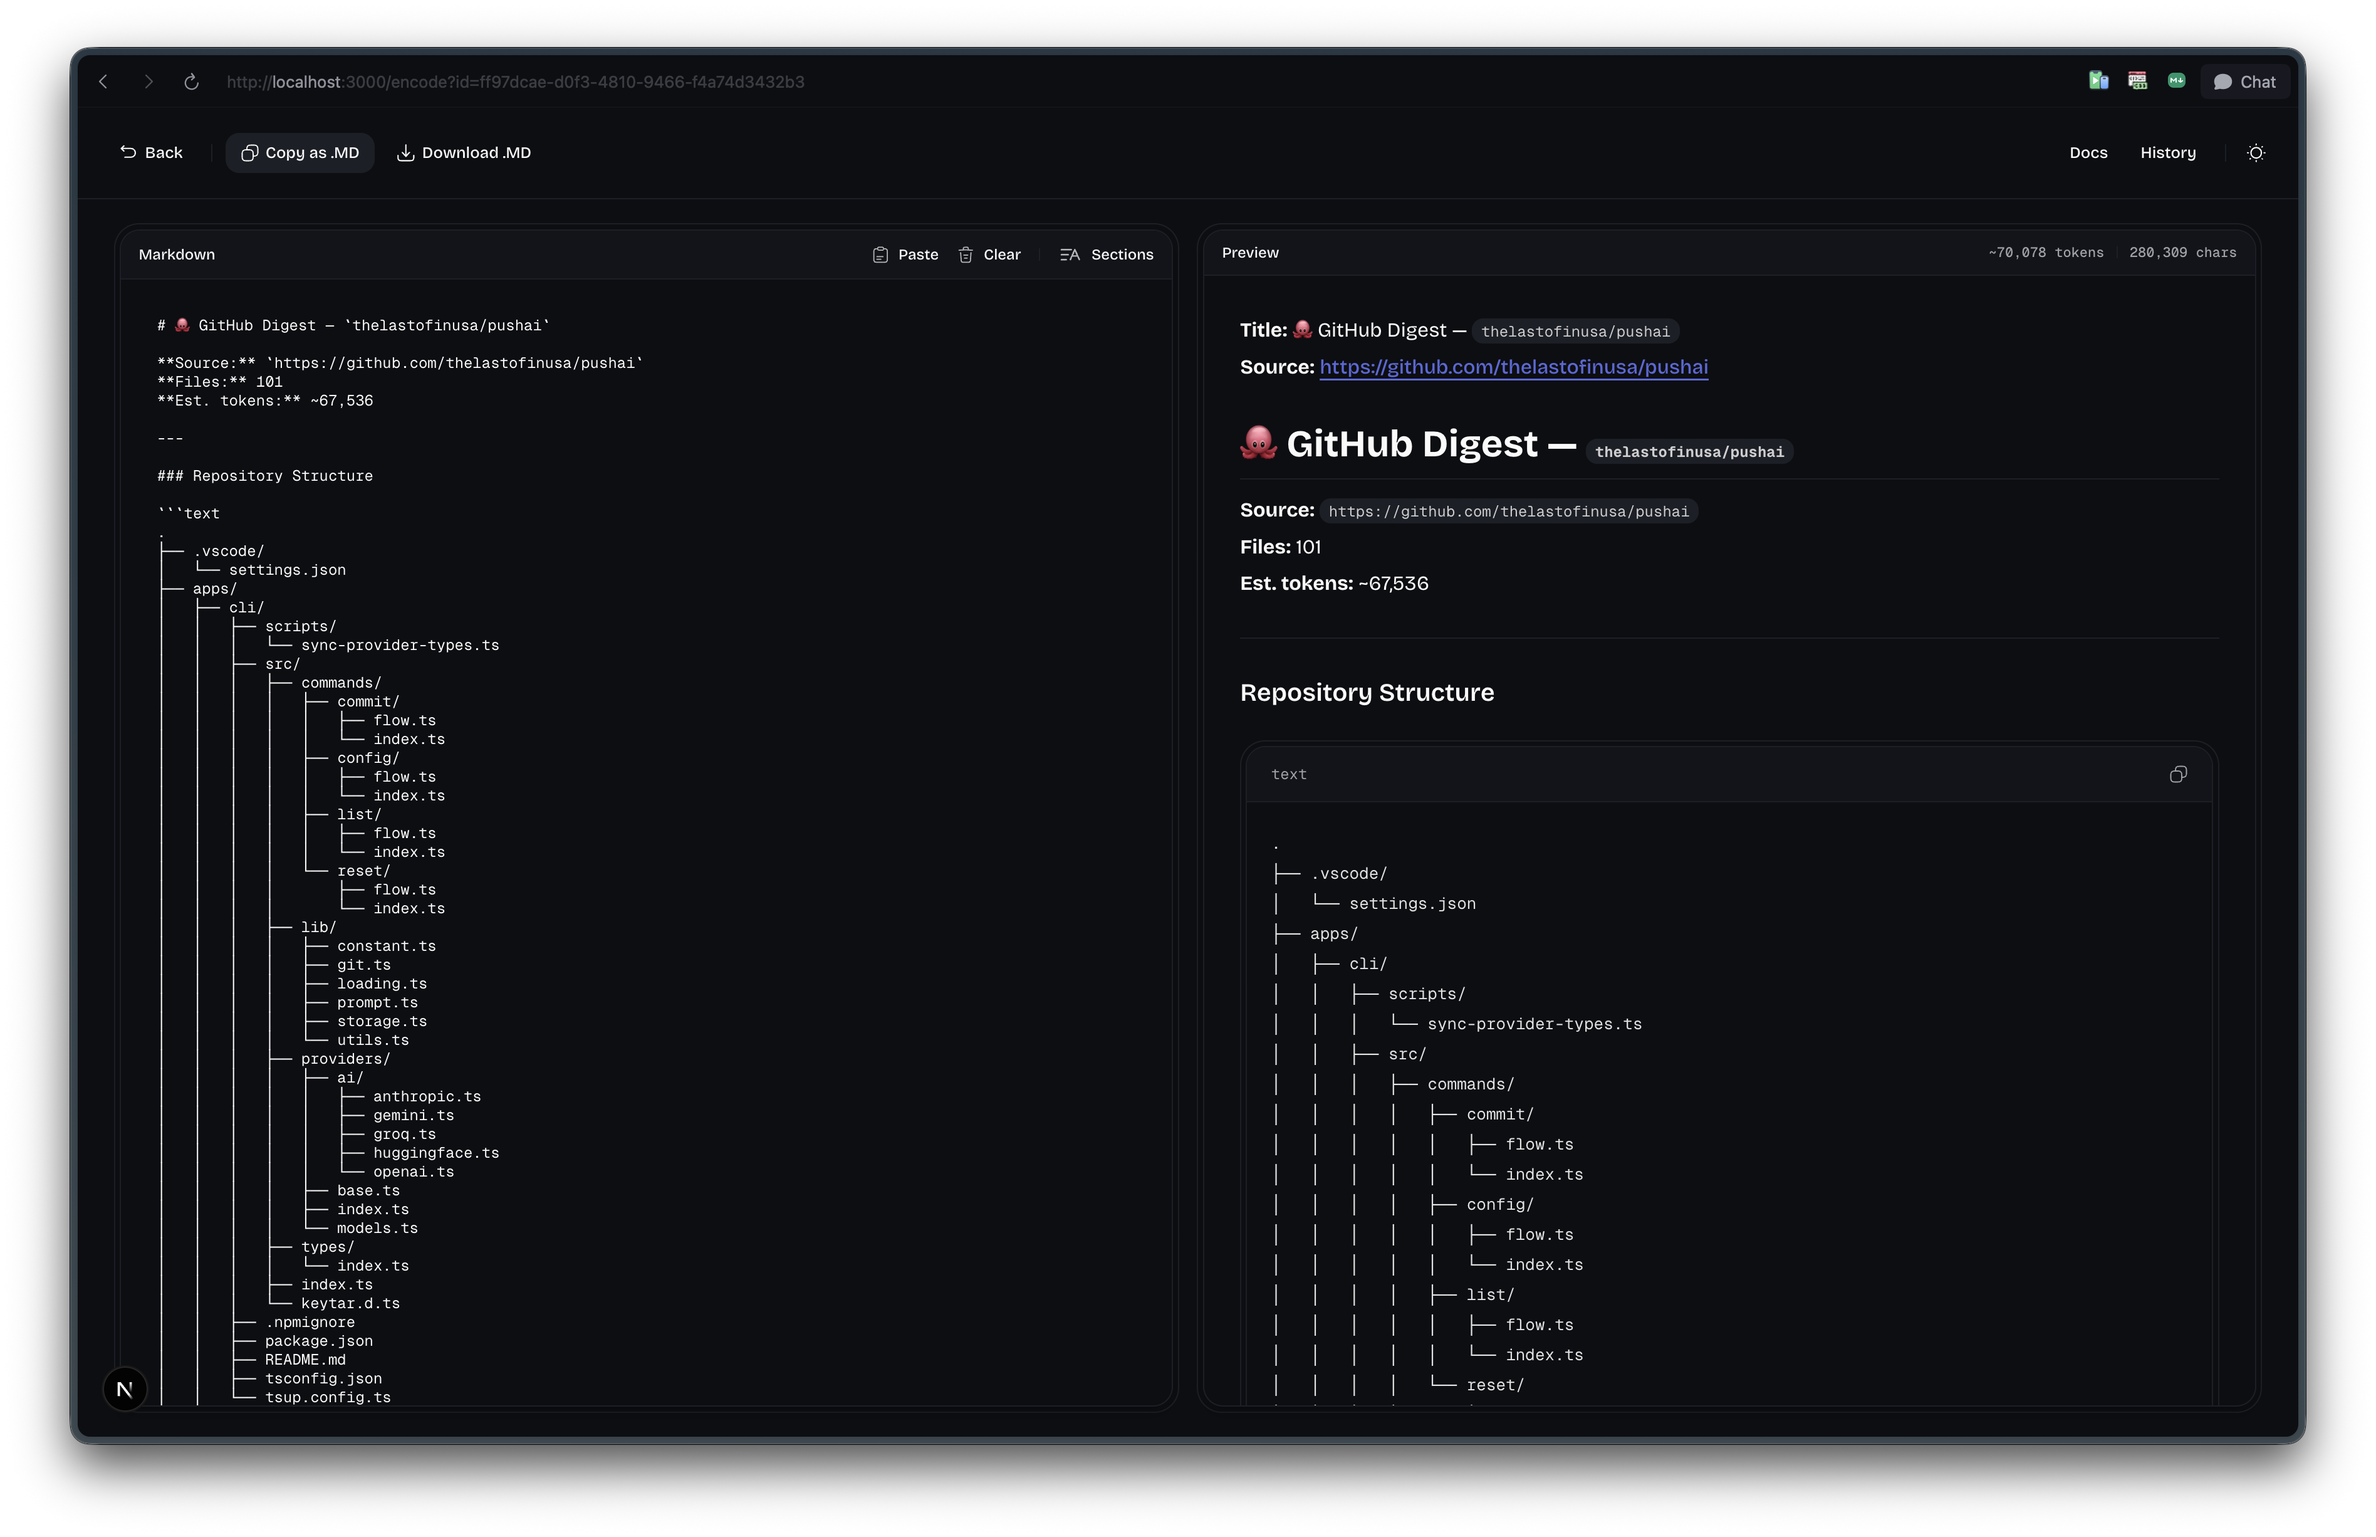
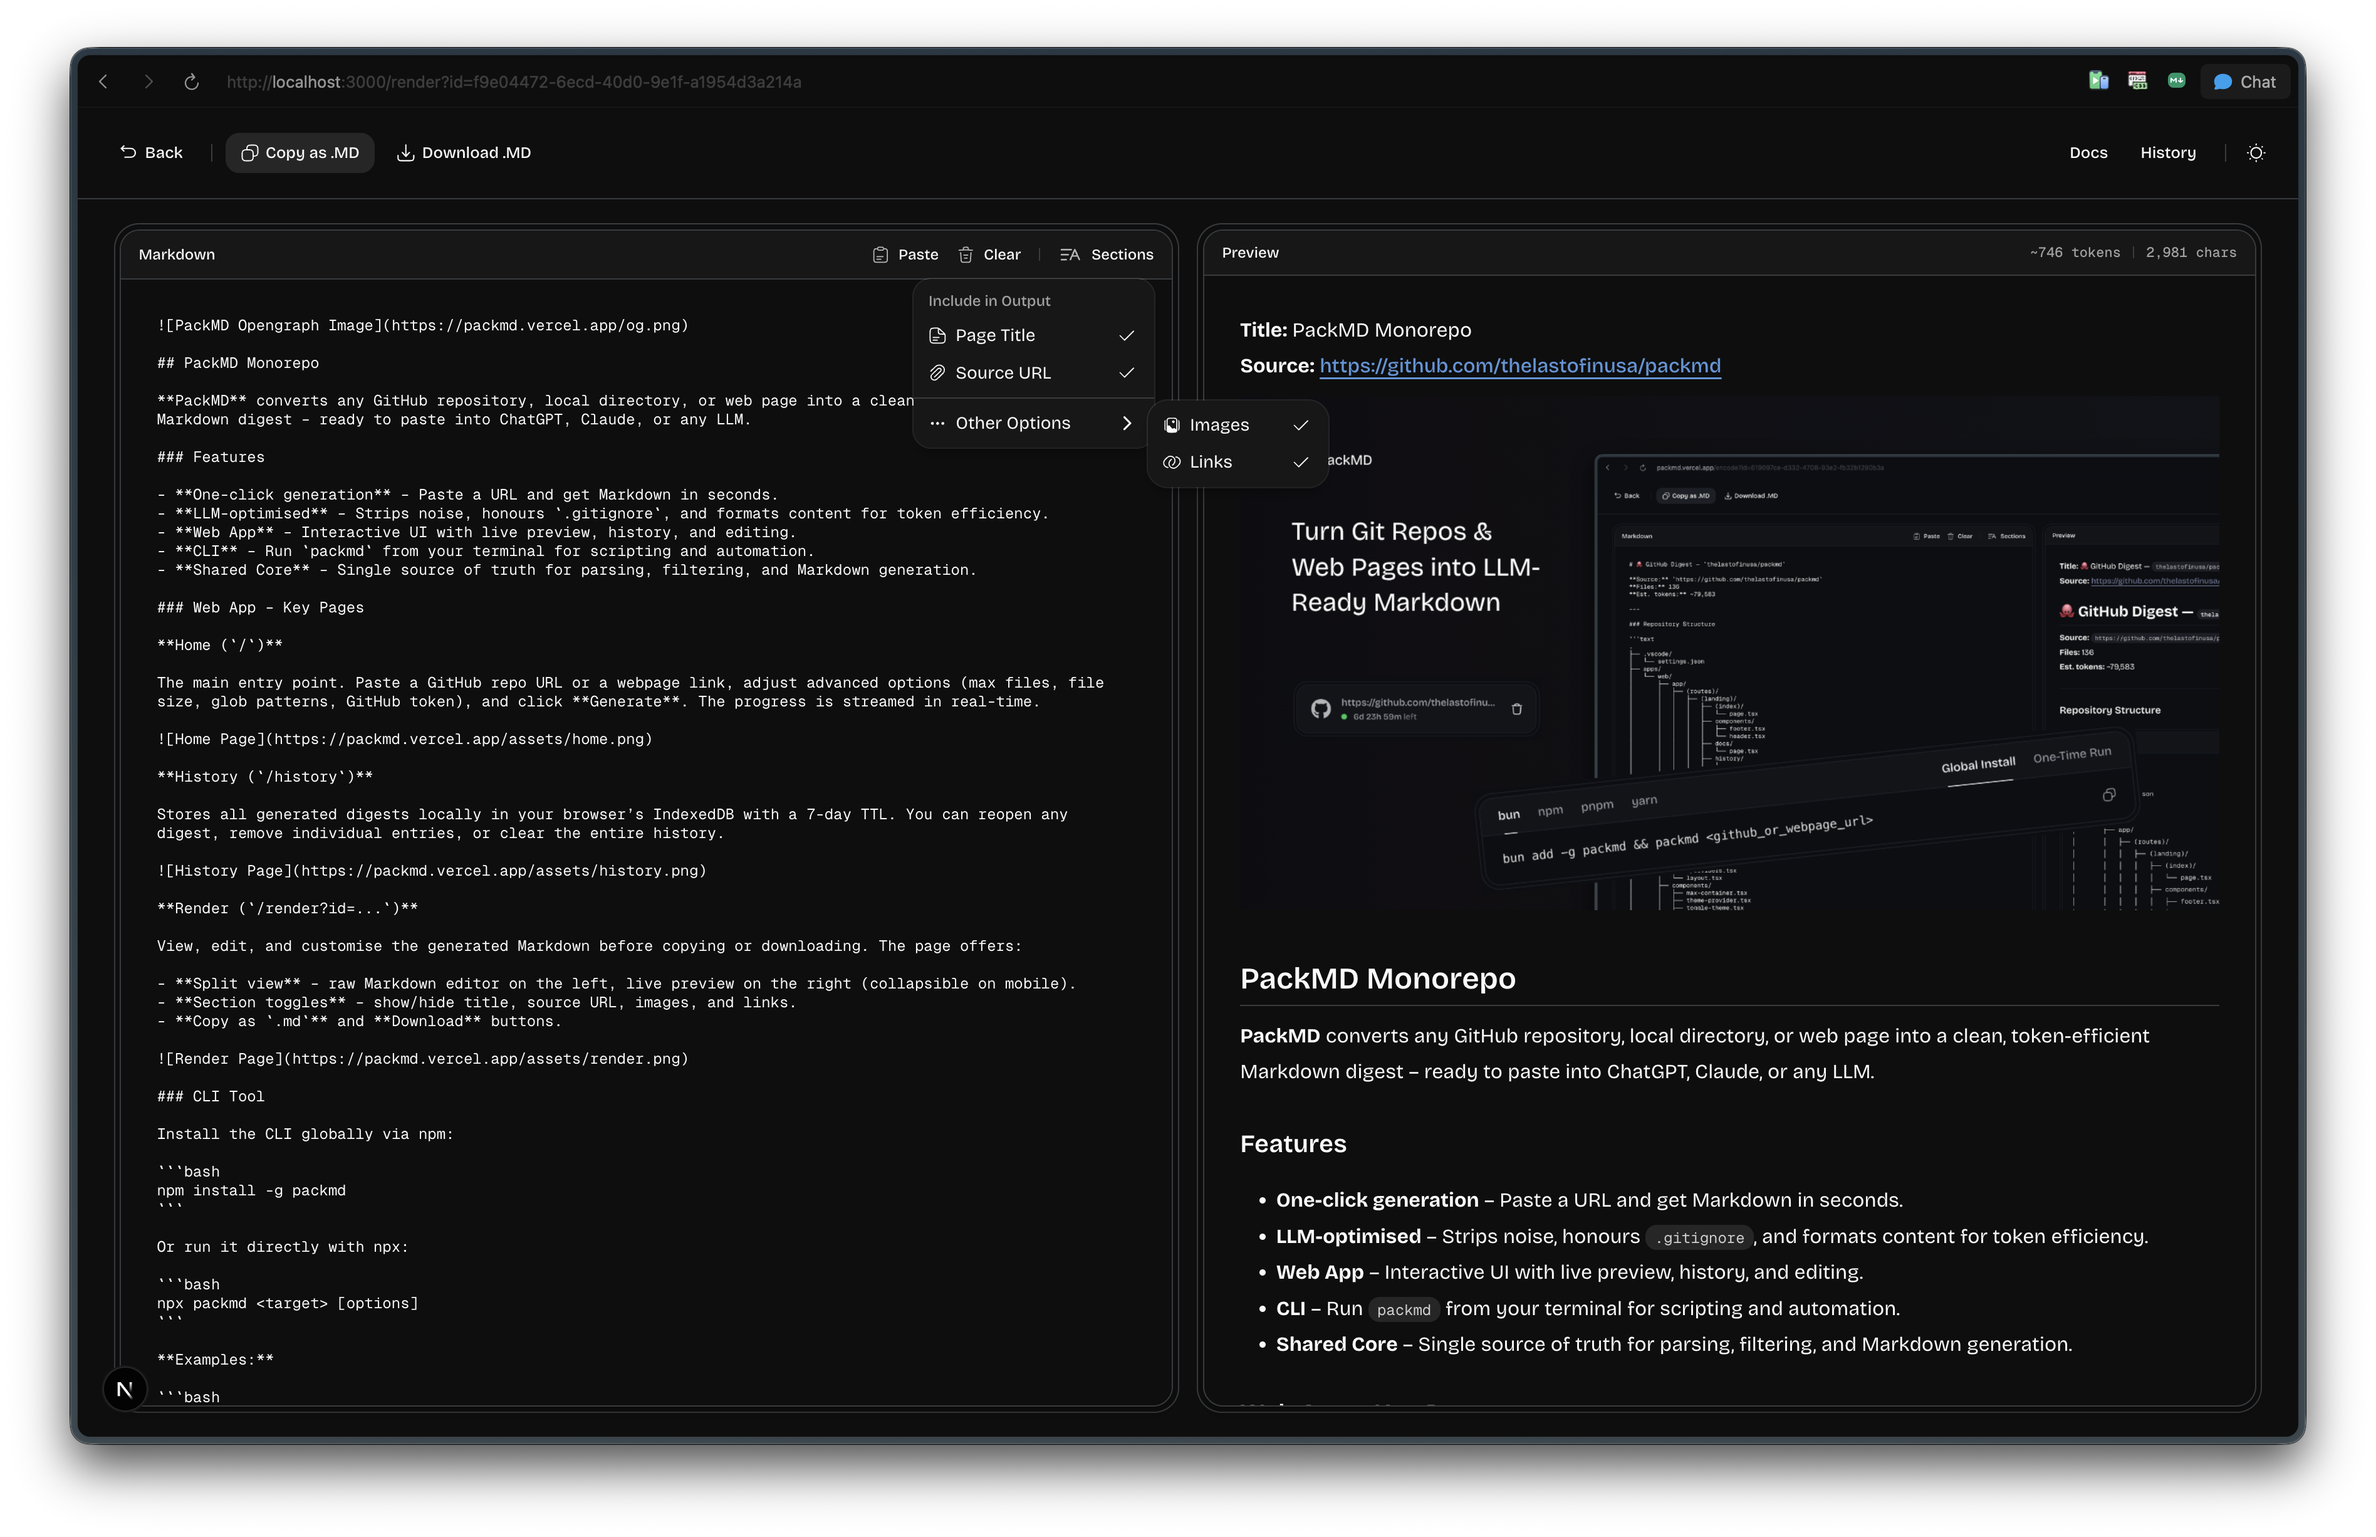
style(theme): update color palette and design tokens

diff --git a/packages/ui/src/styles/globals.css b/packages/ui/src/styles/globals.css
@@ -8,25 +8,25 @@
 @source "../**/*.{ts,tsx}";
 
 :root {
-  --background: oklch(0.9851 0 0);
-  --foreground: oklch(0.1408 0.0044 285.8229);
+  --background: oklch(1 0 0);
+  --foreground: oklch(0.145 0 0);
   --card: oklch(1 0 0);
-  --card-foreground: oklch(0.1408 0.0044 285.8229);
+  --card-foreground: oklch(0.145 0 0);
   --popover: oklch(1 0 0);
-  --popover-foreground: oklch(0.1408 0.0044 285.8229);
-  --primary: oklch(0.5651 0.172 273.874);
+  --popover-foreground: oklch(0.145 0 0);
+  --primary: oklch(0.6112 0.1217 248.9572);
   --primary-foreground: oklch(1 0 0);
-  --secondary: oklch(94.912% 0.00011 271.152);
-  --secondary-foreground: oklch(0.2103 0.0059 285.8852);
-  --muted: oklch(0.9674 0.0013 286.3752);
-  --muted-foreground: oklch(0.5517 0.0138 285.9385);
-  --accent: oklch(0.9574 0.0175 279.0597);
-  --accent-foreground: oklch(0.5651 0.172 273.874);
-  --destructive: oklch(0.6368 0.2078 25.3313);
+  --secondary: oklch(0.97 0 0);
+  --secondary-foreground: oklch(0.205 0 0);
+  --muted: oklch(0.97 0 0);
+  --muted-foreground: oklch(0.556 0 0);
+  --accent: oklch(0.97 0 0);
+  --accent-foreground: oklch(0.205 0 0);
+  --destructive: oklch(0.577 0.245 27.325);
   --destructive-foreground: oklch(0.9851 0 0);
-  --border: oklch(0.9197 0.004 286.3202);
-  --input: oklch(0.9197 0.004 286.3202);
-  --ring: oklch(0.5651 0.172 273.874);
+  --border: oklch(0.884 0.0067 208.7806);
+  --input: oklch(0.745 0.0121 252.1201);
+  --ring: oklch(0.6112 0.1217 248.9572);
 
   --shadow-x: 0px;
   --shadow-y: 4px;
@@ -53,25 +53,25 @@
 }
 
 .dark {
-  --background: oklch(0.1645 0.0086 274.3354);
-  --foreground: oklch(0.9851 0 0);
-  --card: oklch(0.1919 0.0126 270.684);
-  --card-foreground: oklch(0.9851 0 0);
-  --popover: oklch(0.1645 0.0086 274.3354);
-  --popover-foreground: oklch(0.9851 0 0);
-  --primary: oklch(0.5651 0.172 273.874);
+  --background: oklch(16.376% 0.00002 271.152);
+  --foreground: oklch(0.985 0 0);
+  --card: oklch(0.205 0 0);
+  --card-foreground: oklch(0.985 0 0);
+  --popover: oklch(0.205 0 0);
+  --popover-foreground: oklch(0.985 0 0);
+  --primary: oklch(0.6576 0.1208 252.0832);
   --primary-foreground: oklch(1 0 0);
-  --secondary: oklch(0.2393 0.0142 266.9746);
-  --secondary-foreground: oklch(0.9851 0 0);
-  --muted: oklch(0.2393 0.0142 266.9746);
-  --muted-foreground: oklch(0.7118 0.0129 286.0665);
-  --accent: oklch(0.2744 0.0717 275.1525);
-  --accent-foreground: oklch(0.9851 0 0);
+  --secondary: oklch(0.269 0 0);
+  --secondary-foreground: oklch(0.985 0 0);
+  --muted: oklch(0.269 0 0);
+  --muted-foreground: oklch(0.708 0 0);
+  --accent: oklch(0.269 0 0);
+  --accent-foreground: oklch(0.985 0 0);
   --destructive: oklch(0.5945 0.1911 25.1414);
   --destructive-foreground: oklch(1 0 0);
-  --border: oklch(0.2393 0.0142 266.9746);
-  --input: oklch(0.2393 0.0142 266.9746);
-  --ring: oklch(0.5651 0.172 273.874);
+  --border: oklch(0.3506 0.0066 248.0169);
+  --input: oklch(0.4217 0.0084 248.028);
+  --ring: oklch(0.6576 0.1208 252.0832);
 
   --shadow-x: 0px;
   --shadow-y: 6px;
